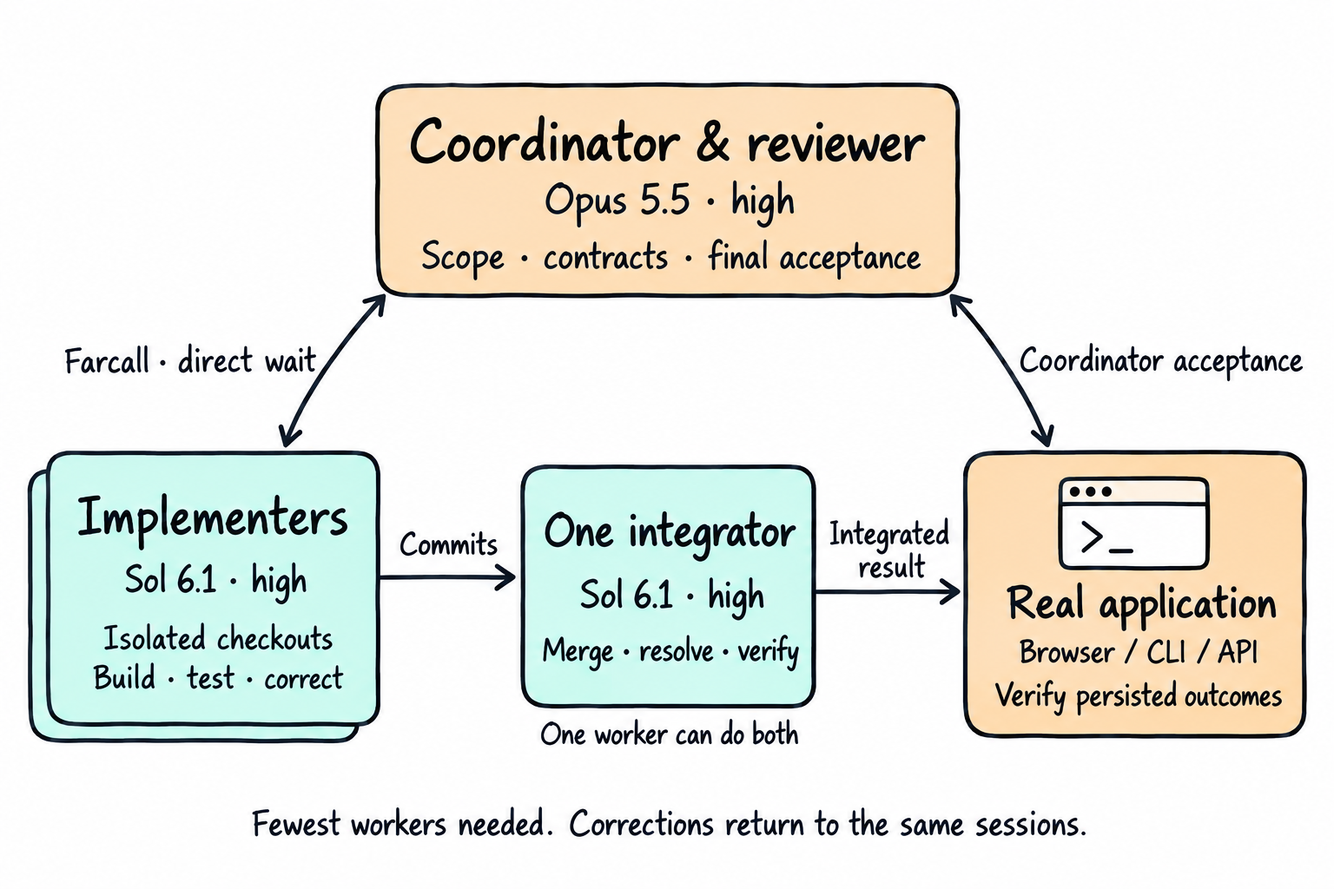
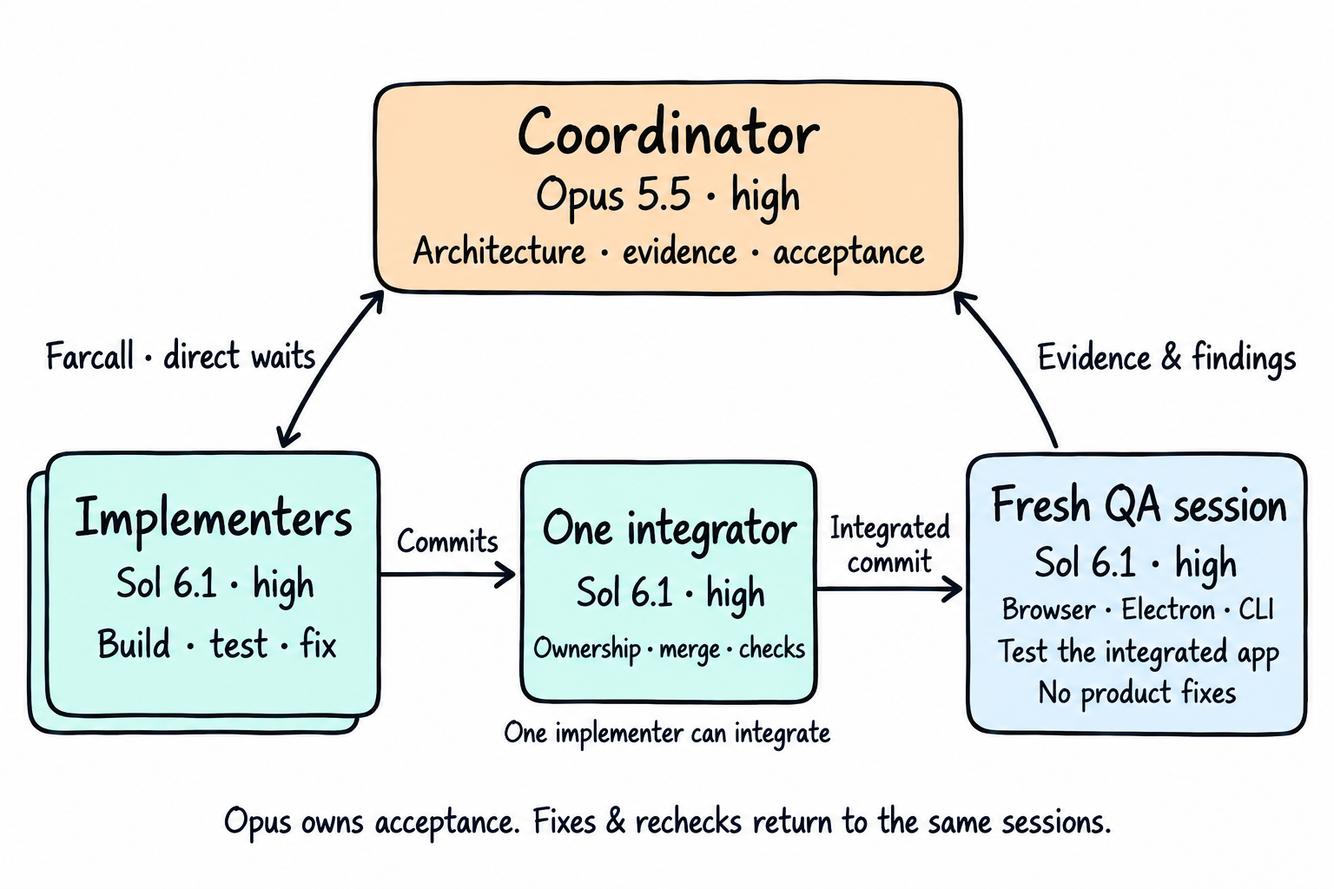
Add separate Sol QA and reproducible acceptance for v0.3.0

diff --git a/plugin/skills/orchestrate/SKILL.md b/plugin/skills/orchestrate/SKILL.md
@@ -1,34 +1,37 @@
 ---
 name: orchestrate
-description: Coordinate implementation through Farcall with Opus reviewing and Sol implementing and integrating. Use for features, fixes, migrations or refactors that the user wants built or orchestrated. Requires the configured Opus session and Farcall Codex worker; do not use for read-only questions.
+description: Coordinate implementation and live QA through Farcall with Opus owning architecture and acceptance and Sol building, integrating and testing. Use for features, fixes, migrations or refactors that the user wants built or orchestrated. Requires the configured Opus session and Farcall Codex worker; do not use for read-only questions.
 argument-hint: <task and optional constraints>
 ---
 
 # Orchestrate
 
-You coordinate and own final acceptance. Sol owns implementation, integration and corrections.
+You coordinate and own final acceptance. Sol owns implementation, integration and corrections. A fresh Sol QA session tests the integrated result without repairing product code.
 
 ## 1. Verify the setup
 
 - Coordinator/reviewer: `claude-opus-5-5`, effort `high`.
-- Every implementation/integration worker: `gpt-6.1-sol`, effort `high`, through Farcall's `codex_worker.run` or `codex_worker.run_batch`.
+- Every implementation/integration/QA worker: `gpt-6.1-sol`, effort `high`, through Farcall's `codex_worker.run` or `codex_worker.run_batch`.
 - No Astra, Sonnet workers, aliases or silent model/effort substitutions. Read the parent session settings and verify worker settings from execution metadata, not a model's self-description. If settings conflict or cannot be verified, report the blocker; do not claim a verified run. A requested setting alone is not evidence of the executed setting.
 - Confirm Farcall and the required local tools are available. Read [the Farcall call contract](references/farcall.md) before dispatch. Do not start replacement workers through native agents, host threads or shell CLI calls if Farcall is unavailable.
-- Follow project instructions. Identify the actual application/entry point, mandatory local checks, browser and test data before unattended execution. Resolve only missing prerequisites; do not repeat an approval already given.
+- Follow project instructions. Verify the actual entry point, start command, mandatory local checks and reproducible test data before delegation. Test fixtures must be versioned or have documented provisioning/reset steps, including external backends. Resolve only missing prerequisites; do not repeat an approval already given.
+- For live QA, verify browser/Electron control in the actual QA session, not only in the coordinator. A worker does not inherit your browser connection. Missing access leaves the affected checks open; agree a transparent alternative, such as coordinator testing, with the user. Do not silently switch tools, models or permissions.
 
 ## 2. Define the work and owners
 
 - Read only enough to establish scope, observable acceptance criteria and shared contracts. Leave detailed exploration to the worker that will implement and correct that deliverable.
 - Specify success, failure, retry and conflict behavior where relevant. Include observable stored outcomes, not just response messages.
-- Use the fewest workers needed. Start with one unless independent deliverables justify more. Do not split investigation, coding and fixes into separate owners.
+- For stateful features, turn the applicable cases in [acceptance evidence](references/acceptance.md) into explicit criteria. Mark high-risk cases requiring your own live check before dispatch; add checks later if new risks emerge.
+- Use the fewest workers needed. Start with one implementer unless independent deliverables justify more. Do not split investigation, coding and fixes into separate owners.
 - Assign each worker an isolated checkout at an agreed base revision, with an explicit branch and file/component ownership. Keep the user's checkout and unsaved work intact. For multi-repository tasks, isolate every writable repository and any mutable runtime state, ports or databases used concurrently.
 - Assign each shared interface/component to exactly one owner. Other workers request changes from that owner; no competing local types, adapters or second implementations. Settle ownership in every handoff.
-- Name one Sol worker as the exclusive integrator and designate its integration branch/checkout. Other workers deliver commits to it. The integrator owns merges and conflict resolution; you review the resulting diff. With one worker, that worker also integrates.
+- Name one Sol worker as the exclusive integrator and designate its integration branch/checkout. Other workers deliver commits to it. The integrator owns merges and conflict resolution; you review the resulting diff. With one implementer, that implementer also integrates.
+- Use a fresh Sol-high QA session for UI/Electron work and substantial multi-worker features, or when explicitly requested. For a small non-UI CLI/API or single-worker task, exercise the entry point yourself unless its risk justifies separate QA. QA owns test execution and evidence, not product repairs. An optional fresh reviewer needs an explicitly agreed model and transport; it is not an automatic extra role or an Astra exception.
 - Share the short plan and honor any requested plan-approval gate before implementation or dispatch. Preparation must not become unauthorized product changes.
 
 ## 3. Prove the path, then dispatch independent work
 
-Have the relevant owner deliver the shared interfaces early and implement the smallest real path through the entry point, backend and persistence as applicable. Exercise it before dependent work expands. If it fails, return it to that owner first; independent work can continue.
+Have the relevant owner deliver the shared interfaces early and integrate the smallest real path through the entry point, backend, persistence and reload as applicable. The owner checks it locally, then the integrator supplies the early integrated revision. The assigned QA session exercises that revision before dependent work expands; for tasks without separate QA, you exercise it. If it fails, return it to the owner first; independent work can continue.
 
 Each brief stands alone. Include the user's task and constraints, plus only the context needed for that worker's assigned slice. These ownership and acceptance requirements are part of the requested orchestration, not extra restrictions invented by the transport.
 
@@ -49,20 +52,23 @@ Use direct Farcall completion waits and batch independent tasks in disjoint chec
 ## 4. Integrate and correct
 
 - Inspect each handoff, including changed paths against ownership, exact session/delegation IDs, actual model/effort evidence, check exit codes and unresolved findings. A completed Farcall call is not task acceptance.
-- Resume the exclusive integrator after its dependencies return. It integrates the agreed commits and runs the mandatory checks against the combined result. Shared ownership violations must be reconciled with the owner before integration is accepted.
+- Resume the exclusive integrator after its dependencies return. Before each intake, it compares the actual changed paths with the ownership assignment. Out-of-scope changes stop that intake and go to you and the assigned owner. You decide semantic conflicts; the integrator must not settle product behavior through an incidental merge. It integrates the agreed commits and runs mandatory checks against the combined result.
 - Workers keep useful regression tests with the implementation, not only in temporary worker artifacts. No extra suites or CI machinery by default.
 - Return corrections to the original worker session with the findings and expected behavior. If that session cannot be resumed, report the limitation before assigning a replacement. Repeated failure calls for a narrower task or a revised decision, never an unannounced model switch.
 - Serialize integration with corrections to the integrator's own checkout. Reintegrate corrected commits through the same integrator; do not edit worker code yourself.
 
 ## 5. Accept the integrated result
 
-- Read the integrated diff yourself. Check shared ownership, interfaces and evidence. Call this **coordinator review**, not independent review.
-- UI tasks require real browser journeys against the real application/backend. Check persisted results by reloading or reading the actual storage/API. Screenshots, mocks and success messages alone do not establish acceptance.
-- For other tasks, exercise the actual CLI, API or library entry point and inspect real outputs and state.
-- Where relevant, test failed reads/writes, delayed responses, concurrent changes and retries with unchanged and changed input. Preserve unsaved work and never acknowledge changes that were not applied.
+- Read the integrated diff yourself. Check shared ownership, interfaces and actual test artifacts, not only the worker summary. You own final acceptance. Call this **coordinator review**; identify separate QA or a fresh review without relabeling your own review as independent.
+- Give QA the integrated commit in its own checkout with isolated ports, test data and mutable runtime state. Bind the running application to that checkout/revision. QA runs applicable critical scenarios and core journeys against the real application/backend, including browser/Electron interaction for those surfaces. For other tasks, exercise the actual CLI, API or library entry point and inspect real outputs and state.
+- Read [acceptance evidence](references/acceptance.md) for the scenario and evidence contract. Every result identifies the commit, running instance or command, steps, expected/actual behavior and persisted outcomes where applicable. Missing evidence leaves the criterion open. Screenshots, mocks and success messages alone do not establish acceptance.
+- QA does not edit product code. Return defects to the original implementation sessions and reintegrate through the designated integrator. Before resuming the same QA session, prepare its checkout at the new integrated commit, preserve evidence and unresolved drafts, and restart/rebind its runtime. Do not force away local changes. QA verifies the checked-out hash and runtime revision before rechecking. QA-authored regression tests must be assigned file ownership and go through the integrator before final checks; avoid concurrent edits to implementer-owned tests.
+- Do not routinely replay QA's clicks yourself. Perform your own live checks for evidence gaps, contradictory results, marked risks or an explicit user request. For tasks without separate QA, perform the relevant entry-point checks yourself.
 - A failed assertion must produce a failed verification result. Missing tools, inaccessible environments and unrun checks remain open; never convert them into a pass.
-- Use worker check evidence to target your acceptance work. Own final acceptance without rerunning every full suite. Keep mandatory local checks; after corrections, recheck affected paths and broaden only if the change or failure requires it.
+- Keep mandatory local checks. After corrections, QA rechecks affected paths and core journeys on the final integrated commit; broaden for changes to shared components or new failures. Avoid duplicate full verification passes. Confirm final evidence matches the reported final state; do not carry an earlier pass across unverified code changes.
 
 ## 6. Report the exact final state
 
 Report the integrated branch/commit, requested and verified models/efforts, what changed, check evidence, coordinator-review findings and unresolved criteria. Distinguish worker-complete, integrated and accepted states. Unverified or failing criteria remain open. No push, main merge, deployment or publishing without approval.
+
+An exhausted time, cost or correction budget ends the run with documented open items. It does not replace acceptance. “Done” applies only to the integrated state that was actually verified.

diff --git a/plugin/skills/orchestrate/references/farcall.md b/plugin/skills/orchestrate/references/farcall.md
@@ -6,7 +6,7 @@ Use the installed Farcall Codex worker tools directly. Tool prefixes vary by hos
 
 The parent must start with `CLAUDE_CODE_MCP_AUTO_BACKGROUND_MS=0` and a client MCP timeout of at least 7200 seconds. These are parent-host settings, not worker arguments. If the host backgrounds or rejects a call, report it and fix the host setup; do not replace the wait with polling.
 
-For one worker, call `run` with these fields. Use the actual assigned checkout and an unused delegation ID.
+For one implementation worker authorized to commit in a standalone clone, call `run` with these fields. Use the actual assigned checkout and an unused delegation ID.
 
 ```json
 {
@@ -16,15 +16,22 @@ For one worker, call `run` with these fields. Use the actual assigned checkout a
   "model": "gpt-6.1-sol",
   "effort": "high",
   "sandbox": "workspace-write",
+  "writable_roots": ["/absolute/path/isolated-checkout/.git"],
   "timeout_seconds": 3600
 }
 ```
 
-For independent tasks use one `run_batch` call with `batch_id` and `tasks`. Each of the 1–5 task entries has its own `task_id` plus the same run fields above, unique delegation ID and distinct non-overlapping checkout. Five is the transport limit, not a target worker count. Integration runs after the required tasks return, never concurrently against a worker's checkout.
+For independent tasks use one `run_batch` call with `batch_id` and `tasks`. Each of the 1–5 task entries has its own `task_id` plus the same run fields above, unique delegation ID and distinct non-overlapping checkout. Adjust writable roots to each role; omit the Git root for QA that only executes checks. Five is the transport limit, not a target worker count. Integration runs after the required tasks return, never concurrently against a worker's checkout.
 
 Use `prompt` or a `prompt_file` under that worker's `cwd/artifacts`, never both. Carry the ownership/acceptance brief into the assigned task. Do not claim the worker inherited the coordinator's history or browser connection.
 
-Use `workspace-write` for implementation. Pass any necessary, already-authorized `writable_roots` and `network_access` explicitly, including on resume; keep writable areas disjoint across a batch. Full access requires explicit authorization and must not be an automatic response to a permission failure. Worktrees can need access to shared Git metadata for commits; verify this before dispatch or use standalone local clones with `--no-hardlinks`. Do not grant every worker write access to the integration checkout.
+Use `workspace-write` for implementation. Pass any necessary, already-authorized `writable_roots` and `network_access` explicitly, including on resume; keep writable areas disjoint across a batch. Full access requires explicit authorization and must not be an automatic response to a permission failure. Codex may keep `.git` read-only even in a standalone clone. For a worker authorized to commit, resolve its Git metadata paths and include the needed paths explicitly before dispatch. The example assumes a standalone clone with its own `.git` directory. Worktrees share Git metadata; prefer standalone local clones with `--no-hardlinks` when disjoint writable roots are required. QA that only executes checks does not need Git write access. Do not grant every worker write access to the integration checkout.
+
+## QA access and isolation
+
+QA uses the same exact Sol/high settings and direct completion contract in a fresh session. Give it an isolated checkout at the integrated commit and separate ports, databases and test data. It may write evidence and explicitly assigned test files, but not product code. Before resuming that same QA session, the coordinator prepares its checkout at the new integrated commit and restarts/rebinds the runtime, preserving existing evidence and unresolved drafts. QA verifies the hash and runtime revision. Do not force away local changes. If QA is explicitly assigned regression-test commits, grant its own Git metadata write access for that task and send those commits through the integrator.
+
+Verify actual browser/Electron access inside that session before declaring live testing available. Parent tools, profiles and connections are not inherited. Use only the configured and authorized host/browser surface. Do not work around a blocked connection with a different browser, personal profile or broader permissions. Keep missing checks open and agree an available alternative with the user, such as coordinator testing. Existing authorization remains valid; do not ask again for already approved access.
 
 ## Settings evidence
 

diff --git a/docs/evaluation.md b/docs/evaluation.md
@@ -13,7 +13,7 @@ The [workflow experiments](https://kevinkern.dev/benchmarks/marlies-workflows/) 
 
 The practical collaboration-app run also exercised Farcall batches, integration handoffs & original-session corrections. It used xhigh workers and separate Astra reviews. The earlier finance release likewise included Astra, and later added project-specific model routing. Neither is proof of the exact 0.2 high/high workflow without Astra.
 
-Version 0.2 adopts the requested Opus/Sol split with explicit shared ownership, one integration owner, an early real end-to-end path & coordinator acceptance of persisted outcomes. There is no general quality ranking or verified cost-saving claim for this new version.
+Version 0.2 adopted the requested Opus/Sol split with explicit shared ownership, one integration owner, an early real end-to-end path & coordinator acceptance of persisted outcomes. Version 0.3 adds a fresh Sol QA session for live testing, concrete stateful scenarios & evidence bound to the final integrated revision. Opus owns acceptance and checks live when evidence or risk requires it. There is no general quality ranking or verified cost-saving claim for this split.
 
 ## Local checks
 
@@ -28,11 +28,19 @@ Run these in disposable checkouts with the configured parent & Farcall. Keep the
 | Missing Farcall or wrong model/effort | Coordinator reports the blocker before implementation; no native worker, fallback model or direct CLI substitute |
 | One small CLI feature | One isolated Sol worker implements & integrates; Opus exercises the actual command and reloads persisted state |
 | Two independent deliverables with a shared interface | One owner delivers the shared interface and minimal working path first; later batch uses disjoint checkouts; only the assigned integrator merges |
-| Correction after integrated review | Exact original worker session resumes, the integrator incorporates the fix, Opus rechecks affected paths without a duplicate full pass |
-| UI read/write failure & delayed response | Real backend/browser interaction preserves unsaved input; reload proves what was stored; changed retries never acknowledge unapplied changes |
+| Correction after integrated review | Exact original worker session resumes, the integrator incorporates the fix, the original QA session rechecks affected paths and core journeys on the new integrated commit |
+| UI read/write failure & delayed response | Fresh Sol QA uses a real backend/browser; newer input survives failed refresh and delayed save responses, and reload proves what was stored |
+| Retry or concurrent status change | Changed retries never acknowledge unapplied changes; a second session's status change cannot hide the first session's local draft |
+| Missing QA browser/Electron access | Checks stay open; an authorized alternative is agreed explicitly, with no silent tool or permission substitution |
 | Verification failure or unknown worker outcome | Failed assertion results in failed verification; unavailable evidence stays open; no duplicate dispatch or unauthorized push |
 
-The 0.2 live acceptance scenarios have not yet been run. The older recorded workflows are supporting design evidence only.
+## 0.3 release smoke
+
+On 2026-10-03, the installed 0.3 candidate completed a small live CLI task through Opus high → Sol high implementation/integration → fresh Sol high QA → Opus coordinator review. A reused operation ID with changed content was rejected without altering persisted data. Identical retries & new IDs worked. The worker's regression test passed, and QA exercised the actual CLI from a separate clean clone.
+
+The worker initially could not commit because its clone's `.git` was read-only in the sandbox. Resuming the same session with that authorized directory as an explicit writable root resolved it. The Farcall reference now specifies this setup. No product correction was needed.
+
+See the [smoke record](smoke-v0.3.md) for settings, outcomes & evidence limits. This validates a narrow CLI path, fresh QA separation & a worker permission-recovery resume. Browser/Electron access, UI race scenarios, parallel integration and product-fix QA rechecks were not exercised. No comparative quality or cost measurement was made.
 
 ## Historical results
 

diff --git a/plugin/rules/coordinator.md b/plugin/rules/coordinator.md
@@ -1,12 +1,13 @@
 # Split Orchestrator
 
-For implementation work, use `/split-orchestrator:orchestrate`. Its roles are fixed: coordinator/reviewer `claude-opus-5-5`, high; implementation/integration `gpt-6.1-sol`, high, through Farcall's Codex worker. No Astra or Sonnet workers. Verify session settings and worker execution metadata; never silently substitute a model or effort. If the required setup is missing, report the blocker before dispatch. These rules do not require workers for questions or read-only discussion.
+For implementation work, use `/split-orchestrator:orchestrate`. Its roles are fixed: coordinator/reviewer `claude-opus-5-5`, high; implementation/integration/QA `gpt-6.1-sol`, high, through Farcall's Codex worker. No Astra or Sonnet workers. Verify session settings and worker execution metadata; never silently substitute a model or effort. If the required setup is missing, report the blocker before dispatch. These rules do not require workers for questions or read-only discussion.
 
 - Follow project instructions and the user's scope and approval gates. Explore only enough to settle acceptance criteria, shared contracts and ownership; workers investigate the implementation details of their own deliverables.
-- Use the fewest workers needed. Give each an isolated checkout and explicit ownership. Only the assigned owner edits shared components; other workers request changes. One Sol worker owns integration, even when there is only one worker.
+- Use the fewest workers needed. Give each an isolated checkout and explicit ownership. Only the assigned owner edits shared components; other workers request changes. One Sol worker owns integration, even when there is only one implementer. Before intake it checks actual changed paths against ownership; violations and semantic conflicts go to you and the assigned owner.
 - Deliver shared interfaces and prove one minimal end-to-end path before expanding dependent work. Parallelize only independent deliverables.
 - Call Farcall directly and wait for completion. Batch independent tasks. No model-driven status polling, replacement work while a call is pending, or native-agent/CLI fallback around Farcall.
 - Workers implement, verify locally and correct their work. Return findings to the exact original sessions. Keep handoffs short: changes, evidence, blockers and decisions.
-- Review the integrated diff and exercise the real entry point yourself. UI work needs real browser journeys against the application/backend and persisted outcomes. A failed assertion fails verification. Worker reports support, but do not replace, acceptance.
-- Keep mandatory local checks. Avoid duplicate full verification passes; recheck affected paths after fixes. No extra suites or CI machinery by default.
-- Label the final review as coordinator review. Unverified or failing criteria remain open. No push, main merge, deployment or publishing without approval.
+- For UI/Electron and substantial multi-worker work, use a fresh Sol QA session with its own checkout and runtime state. Verify its actual browser access first. QA tests the integrated application and persisted outcomes, reports defects and rechecks fixes in the same session; it does not repair product code. Small tasks can be checked directly by the coordinator.
+- Review the integrated diff and actual test evidence yourself. Bind evidence to the final commit and running instance. Check relevant changed retries, failed refreshes, delayed save responses and concurrent changes; preserve drafts and never acknowledge unapplied changes. Own acceptance without routinely repeating QA clicks. Check live yourself when evidence is incomplete or contradictory, risk warrants it or the user requests it. A failed assertion fails verification.
+- Keep mandatory local checks. Avoid duplicate full verification passes; recheck affected paths and core journeys on the final integrated commit after fixes. No extra suites or CI machinery by default.
+- Label the final review as coordinator review. Unverified or failing criteria remain open. Exhausted time, cost or correction budgets do not replace acceptance. No push, main merge, deployment or publishing without approval.

diff --git a/docs/usage.md b/docs/usage.md
@@ -8,8 +8,9 @@
 |---|---|---|---|
 | Coordinator/reviewer | `claude-opus-5-5` | `high` | Scope, contracts, ownership, integrated review & final acceptance |
 | Implementation/integration | `gpt-6.1-sol` | `high` | Implementation, local checks, corrections & one exclusive integration owner |
+| Live QA (fresh session) | `gpt-6.1-sol` | `high` | Real browser/Electron or entry-point checks, persisted outcomes & rechecks; no product fixes |
 
-Farcall is the required transport. There is no native implementer agent, alternate host worker route or Astra review step. A single Sol worker can implement & integrate. Add workers only for independent deliverables.
+Farcall is the required transport. There is no native implementer agent, alternate host worker route or Astra review step. A single Sol worker can implement & integrate. Add implementers only for independent deliverables. Use separate QA for UI/Electron and substantial multi-worker work; small tasks can be checked directly by Opus. Opus evaluates actual evidence without routinely replaying QA clicks. Evidence gaps, contradictions, marked risks or a user request trigger its own live checks. A fresh reviewer is optional, with an agreed model and transport.
 
 These are workflow instructions, not runtime enforcement of model selection or file access. The plugin cannot change the coordinator's model or effort. Start it with the exact settings & check actual worker execution metadata. Missing evidence stays unverified; a mismatch blocks further dispatch. No silent substitutions.
 
@@ -24,7 +25,7 @@ CLAUDE_CODE_MCP_AUTO_BACKGROUND_MS=0 MCP_TOOL_TIMEOUT=7200000 \
 
 Set the environment before launching the parent. The plugin cannot retrofit completion waiting into an already running session. An interrupted call must be reconciled before retrying; never launch duplicate work or replace the wait with model-driven polling.
 
-For Claude in Chrome, add `--chrome` & connect the extension before the run. Other configured browser tools can be used if they can drive the real application/backend. Check the target device, URL, ports & test data first. Worker browser tools are separate and must not be assumed from the parent connection.
+For Claude in Chrome, add `--chrome` & connect the extension before the run. Other configured browser tools can be used if they can drive the real application/backend. Check the target device, URL, ports & test data first. QA browser tools are separate and must not be assumed from the parent connection. Verify access in that exact session. Missing access leaves checks open; agree an alternative with the user instead of silently changing tools or permissions. QA needs an isolated checkout and runtime state, with reproducible start/reset commands and test data.
 
 ## Task prompt
 
@@ -36,12 +37,21 @@ Constraints: <scope, product behavior and environment restrictions>.
 Propose a short plan with observable acceptance criteria and wait for approval.
 Use the fewest workers needed, with isolated checkouts and explicit ownership.
 Give one Sol worker integration responsibility.
-Verify the integrated result through the real entry point and persisted state.
+For UI or substantial multi-worker work, have fresh Sol QA verify the integrated result and persisted state.
 Report coordinator review findings, evidence and unresolved criteria.
 No push, main merge, deployment or publishing without approval.
 ```
 
 The full [orchestration skill](../plugin/skills/orchestrate/SKILL.md) covers failure/retry/conflict behavior, shared ownership, the minimal end-to-end path & acceptance. The [Farcall reference](../plugin/skills/orchestrate/references/farcall.md) covers call arguments, permissions, settings evidence, batch waiting & exact-session corrections.
+
+## Update
+
+```sh
+claude plugin marketplace update split-orchestrator
+claude plugin update split-orchestrator@split-orchestrator
+```
+
+Start a new Claude session after updating. Version 0.3 adds separate Sol QA, concrete stateful acceptance cases and evidence tied to the final integrated commit. See the [acceptance contract](../plugin/skills/orchestrate/references/acceptance.md).
 
 ## Upgrade from 0.1
 

diff --git a/docs/smoke-v0.3.md b/docs/smoke-v0.3.md
@@ -1,0 +1,43 @@
+# 0.3 live smoke
+
+[Back to verification](evaluation.md)
+
+Run on 2026-10-03 against the installed 0.3 candidate in a disposable Python standard-library CLI. The task was to reject changed-content retries without mutating the stored note. The coordinator used the installed orchestration skill; one Sol session implemented & integrated, a fresh Sol session performed QA, and Opus reviewed the integrated diff & evidence.
+
+## Execution evidence
+
+| Role | Evidence |
+|---|---|
+| Coordinator | The outer Farcall Claude worker reported `claude-opus-5-5`; launch effort high, process environment `CLAUDE_EFFORT=high` |
+| Implementer/integrator | Native Codex `turn_context` recorded `gpt-6.1-sol` / high for both initial & resumed turns |
+| Fresh QA | A separate native Codex session recorded `gpt-6.1-sol` / high |
+| Completion waits | Coordinator trace contained three direct Farcall calls and their results; no worker-status polling calls |
+| Integration | Worker branch at `89715bae8481b35376ae5121b83026037b0a1b12`, clean |
+| QA | Separate clean clone of that exact commit; no product edits |
+| Source | Original fixture main at `00d61419321e3cd03e11fc551e3c90386efe5282`, unchanged |
+
+These hashes identify the disposable fixture, not commits in this plugin repository. Farcall's Codex `reported_model` field was unknown; matching native session metadata supplied the model/effort evidence. This establishes recorded execution settings, not independent attestation of a remote provider's internals.
+
+## Observed outcomes
+
+QA invoked `python3 note.py --store <isolated-file> put --id <id> --value <value>` and `get`. Each step recorded stdout, stderr, exit code, stored JSON & file hash.
+
+| Scenario | Result |
+|---|---|
+| First operation stores `hello` | Exit 0; file & subsequent read agree |
+| Identical retry | Exit 0; same result; file unchanged byte-for-byte |
+| Same ID with changed content | Exit 2; conflict on stderr, no success output; file unchanged |
+| Read after rejected retry | Exit 0; still `hello` |
+| New ID stores `world` | Exit 0; both operation IDs retained |
+| Read after new operation | Exit 0; `world` |
+| Old ID with changed content after newer save | Exit 2; latest value & file bytes preserved |
+
[1 lines of base64/hex data omitted]
+
+## Recovery & limits
+
+The initial worker commit failed because `.git` was read-only. The coordinator resumed the exact same worker session with the clone's Git directory as an authorized writable root. This succeeded without broader sandbox access or a replacement worker. The final Farcall instructions include this lesson; that final wording was checked locally after the live run.
+
+The CLI had no browser/Electron surface. UI read/write failures, delayed-save races, concurrent browser sessions, multiple implementers, product-fix QA resumes & optional fresh review remain untested by this smoke. This is a narrow workflow check, not a full acceptance or cost benchmark.
+
+Raw sessions, QA command evidence & fixture repositories are retained locally under `artifacts/live-0.3/`, excluded from the published plugin. Coordinator session `d9cba2bb-142b-44e3-a586-71c90045220e`, implementation session `01a101b5-7280-7c63-80dd-ab8ee923187c`, QA session `01a101b7-4549-70b1-89d0-1ee759ecff68`.

diff --git a/plugin/skills/orchestrate/references/acceptance.md b/plugin/skills/orchestrate/references/acceptance.md
@@ -1,0 +1,32 @@
+# Acceptance evidence
+
+Opus defines expected behavior and applicable scenarios before implementation. Implementers keep reproducible regression tests with the code. A fresh Sol QA session exercises the integrated application; Opus evaluates the diff and evidence and owns acceptance. Small tasks without separate QA are checked directly by Opus.
+
+## Stateful scenarios
+
+Select cases relevant to the feature. Document why a case is not applicable rather than inventing unrelated requirements.
+
+| Scenario | Required outcome |
+|---|---|
+| Retry with unchanged or changed input | An identical retry follows the agreed idempotency contract. Reusing an operation ID with changed content cannot report success for changes that were never stored. Reject the mismatch or apply the documented contract; verify storage. |
+| Failed read, refresh or write | Unsaved input stays visible and recoverable. A failed refresh or filter change must not discard the draft. A failed save must not claim success. |
+| Delayed save response | Start saving, edit again while the response is delayed, then release it. Newer input survives; the UI distinguishes the saved version from the still-unsaved changes. |
+| Concurrent status change | A second independent browser context/session changes the same record's status. Conflict handling and reloading preserve access to the first session's local draft. Do not assume stale changes may overwrite the new state. |
+
+For every applicable case, the success/error message, displayed state and persisted data must agree. Preserve unsaved work; never acknowledge unapplied changes.
+
+## Reproducible evidence
+
+For each scenario, record:
+
+- Integrated commit(s), clean/dirty state and the checkout used. Relevant uncommitted changes invalidate a claim about that commit alone.
+- Running instance, URL/port or exact entry command, and how its build/process maps to that revision. For external services, name the tested version/environment and any provenance limitation.
+- Reproducible start/reset instructions and versioned or documented test-data provisioning. No hidden local fixture dependencies.
+- Steps, expected behavior, actual behavior, pass/fail and useful artifacts. Assertions must fail the verification command when unmet.
+- Persisted outcome checked by reload, API or storage when applicable. Explain non-applicability for checks without persisted state.
+
+QA owns an isolated checkout and runtime state. It may create test evidence; it cannot repair product code. Agree ownership before it adds regression tests, then integrate those tests through the sole integrator.
+
+After a fix, the coordinator prepares the QA checkout and runtime at the new integrated commit while preserving evidence and unresolved drafts. Resume the original QA session, verify that revision, and repeat affected scenarios plus core journeys. Broaden coverage when shared changes or new failures justify it. Opus checks evidence gaps, contradictions and pre-marked risks itself when needed, without routinely repeating every journey.
+
+Keep failures and missing evidence open. A budget limit is a stopping condition, never a pass.

diff --git a/README.md b/README.md
@@ -2,9 +2,9 @@
 
 ![Split Orchestrator. One coordinator helps three coding mascots assemble their separate pieces.](docs/images/split-orchestrator-banner.png)
 
-Opus coordinates & reviews. Sol builds & integrates through [Farcall](https://github.com/regenrek/farcall-mcp).
+Opus coordinates & reviews. Sol builds, integrates & tests through [Farcall](https://github.com/regenrek/farcall-mcp).
 
-A Claude Code plugin for clearly owned work, direct completion waits & checks against the real application. Use the fewest workers needed. One worker owns integration; Opus owns final acceptance.
+A Claude Code plugin for clearly owned work, direct completion waits & checks against the real application. Use the fewest workers needed. One worker owns integration. A fresh Sol QA session tests the integrated app; Opus owns final acceptance.
 
 The coordinator uses `claude-opus-5-5`, high. Workers use `gpt-6.1-sol`, high. No Astra or silent model substitutions.
 
@@ -28,7 +28,7 @@ CLAUDE_CODE_MCP_AUTO_BACKGROUND_MS=0 MCP_TOOL_TIMEOUT=7200000 \
 
 [Setup, browser access & upgrading from 0.1](docs/usage.md).
 
-![Opus coordinates Sol workers through Farcall. One Sol worker integrates their commits. Opus checks the integrated application and persisted outcomes.](docs/images/orchestration-example.png)
+![Opus coordinates Sol workers through Farcall. One Sol worker integrates their commits. A fresh Sol QA session tests the integrated application. Opus reviews the evidence and owns acceptance.](docs/images/orchestration-example.png)
 
 ## Try it
 
@@ -39,7 +39,7 @@ Report what changed, what passed and what remains open.
 No push, main merge, deployment or publishing without approval.
 ```
 
-The skill handles ownership, isolated checkouts, worker corrections & coordinator acceptance. Add constraints or specific user journeys to the prompt. UI work requires a working browser connection to the real application/backend.
+The skill handles ownership, isolated checkouts, worker corrections & coordinator acceptance. Add constraints or specific user journeys to the prompt. UI work requires a working browser connection in the QA session to the real application/backend.
 
 ## Why this workflow
 

diff --git a/CHANGELOG.md b/CHANGELOG.md
@@ -1,6 +1,17 @@
 # Changelog
 
-## 0.2.0 (unreleased)
+## 0.3.0 (2026-10-03)
+
+- Add fresh Sol-high QA sessions for live browser/Electron checks of the integrated application. QA reports and rechecks defects; original implementation sessions repair them. Opus reviews the diff and actual evidence and owns acceptance, without routinely duplicating QA journeys.
+- Make applicable changed-retry, failed-refresh, delayed-save and concurrent-status cases explicit. Verify persisted outcomes and preserve unsaved drafts.
+- Require the integrator to check changed paths against ownership before intake and escalate semantic conflicts.
+- Tie acceptance evidence to the final integrated commit and running instance, with reproducible test data and working tools in the actual QA session. Recheck affected paths and core journeys after fixes.
+- Keep a fresh reviewer optional. Budget exhaustion reports open criteria; it never replaces acceptance.
+- Refresh the workflow diagram, setup and verification notes. See [verification](docs/evaluation.md) for the release smoke test and its limits.
+
+## 0.2.0 (2026-10-03)
+
+Published to the marketplace's main branch; no separate release tag.
 
 - Replace the native Sonnet implementer with `gpt-6.1-sol`, high, through Farcall. Coordinator/reviewer is `claude-opus-5-5`, high. No Astra or silent substitutions.
 - Assign one Sol worker exclusive integration responsibility. Use isolated checkouts, shared-component ownership and the fewest workers needed.

diff --git a/hosts/bb/README.md b/hosts/bb/README.md
@@ -1,6 +1,6 @@
 # Split Orchestrator in bb
 
-Install Split Orchestrator & Farcall's Codex worker on the machine running Claude Code, as in the [main README](../../README.md). Start a new Claude Code thread with `claude-opus-5-5`, high, and the [parent wait settings](../../docs/usage.md#setup). For UI tasks, verify its browser connection.
+Install Split Orchestrator & Farcall's Codex worker on the machine running Claude Code, as in the [main README](../../README.md). Start a new Claude Code thread with `claude-opus-5-5`, high, and the [parent wait settings](../../docs/usage.md#setup). For UI tasks, verify browser control in the actual Sol QA session; a parent connection is not inherited.
 
 Workers run through Farcall from that coordinator. They are not bb child threads. Do not install extra model-routing rules or use `bb thread spawn` as an implementation fallback.
 

diff --git a/docs/development.md b/docs/development.md
@@ -23,6 +23,7 @@ plugin/
   skills/orchestrate/
     SKILL.md
     references/farcall.md
+    references/acceptance.md
 hosts/
   bb/       setup notes & removal of the old custom-instruction block
   herdr/    coordinator setup notes
